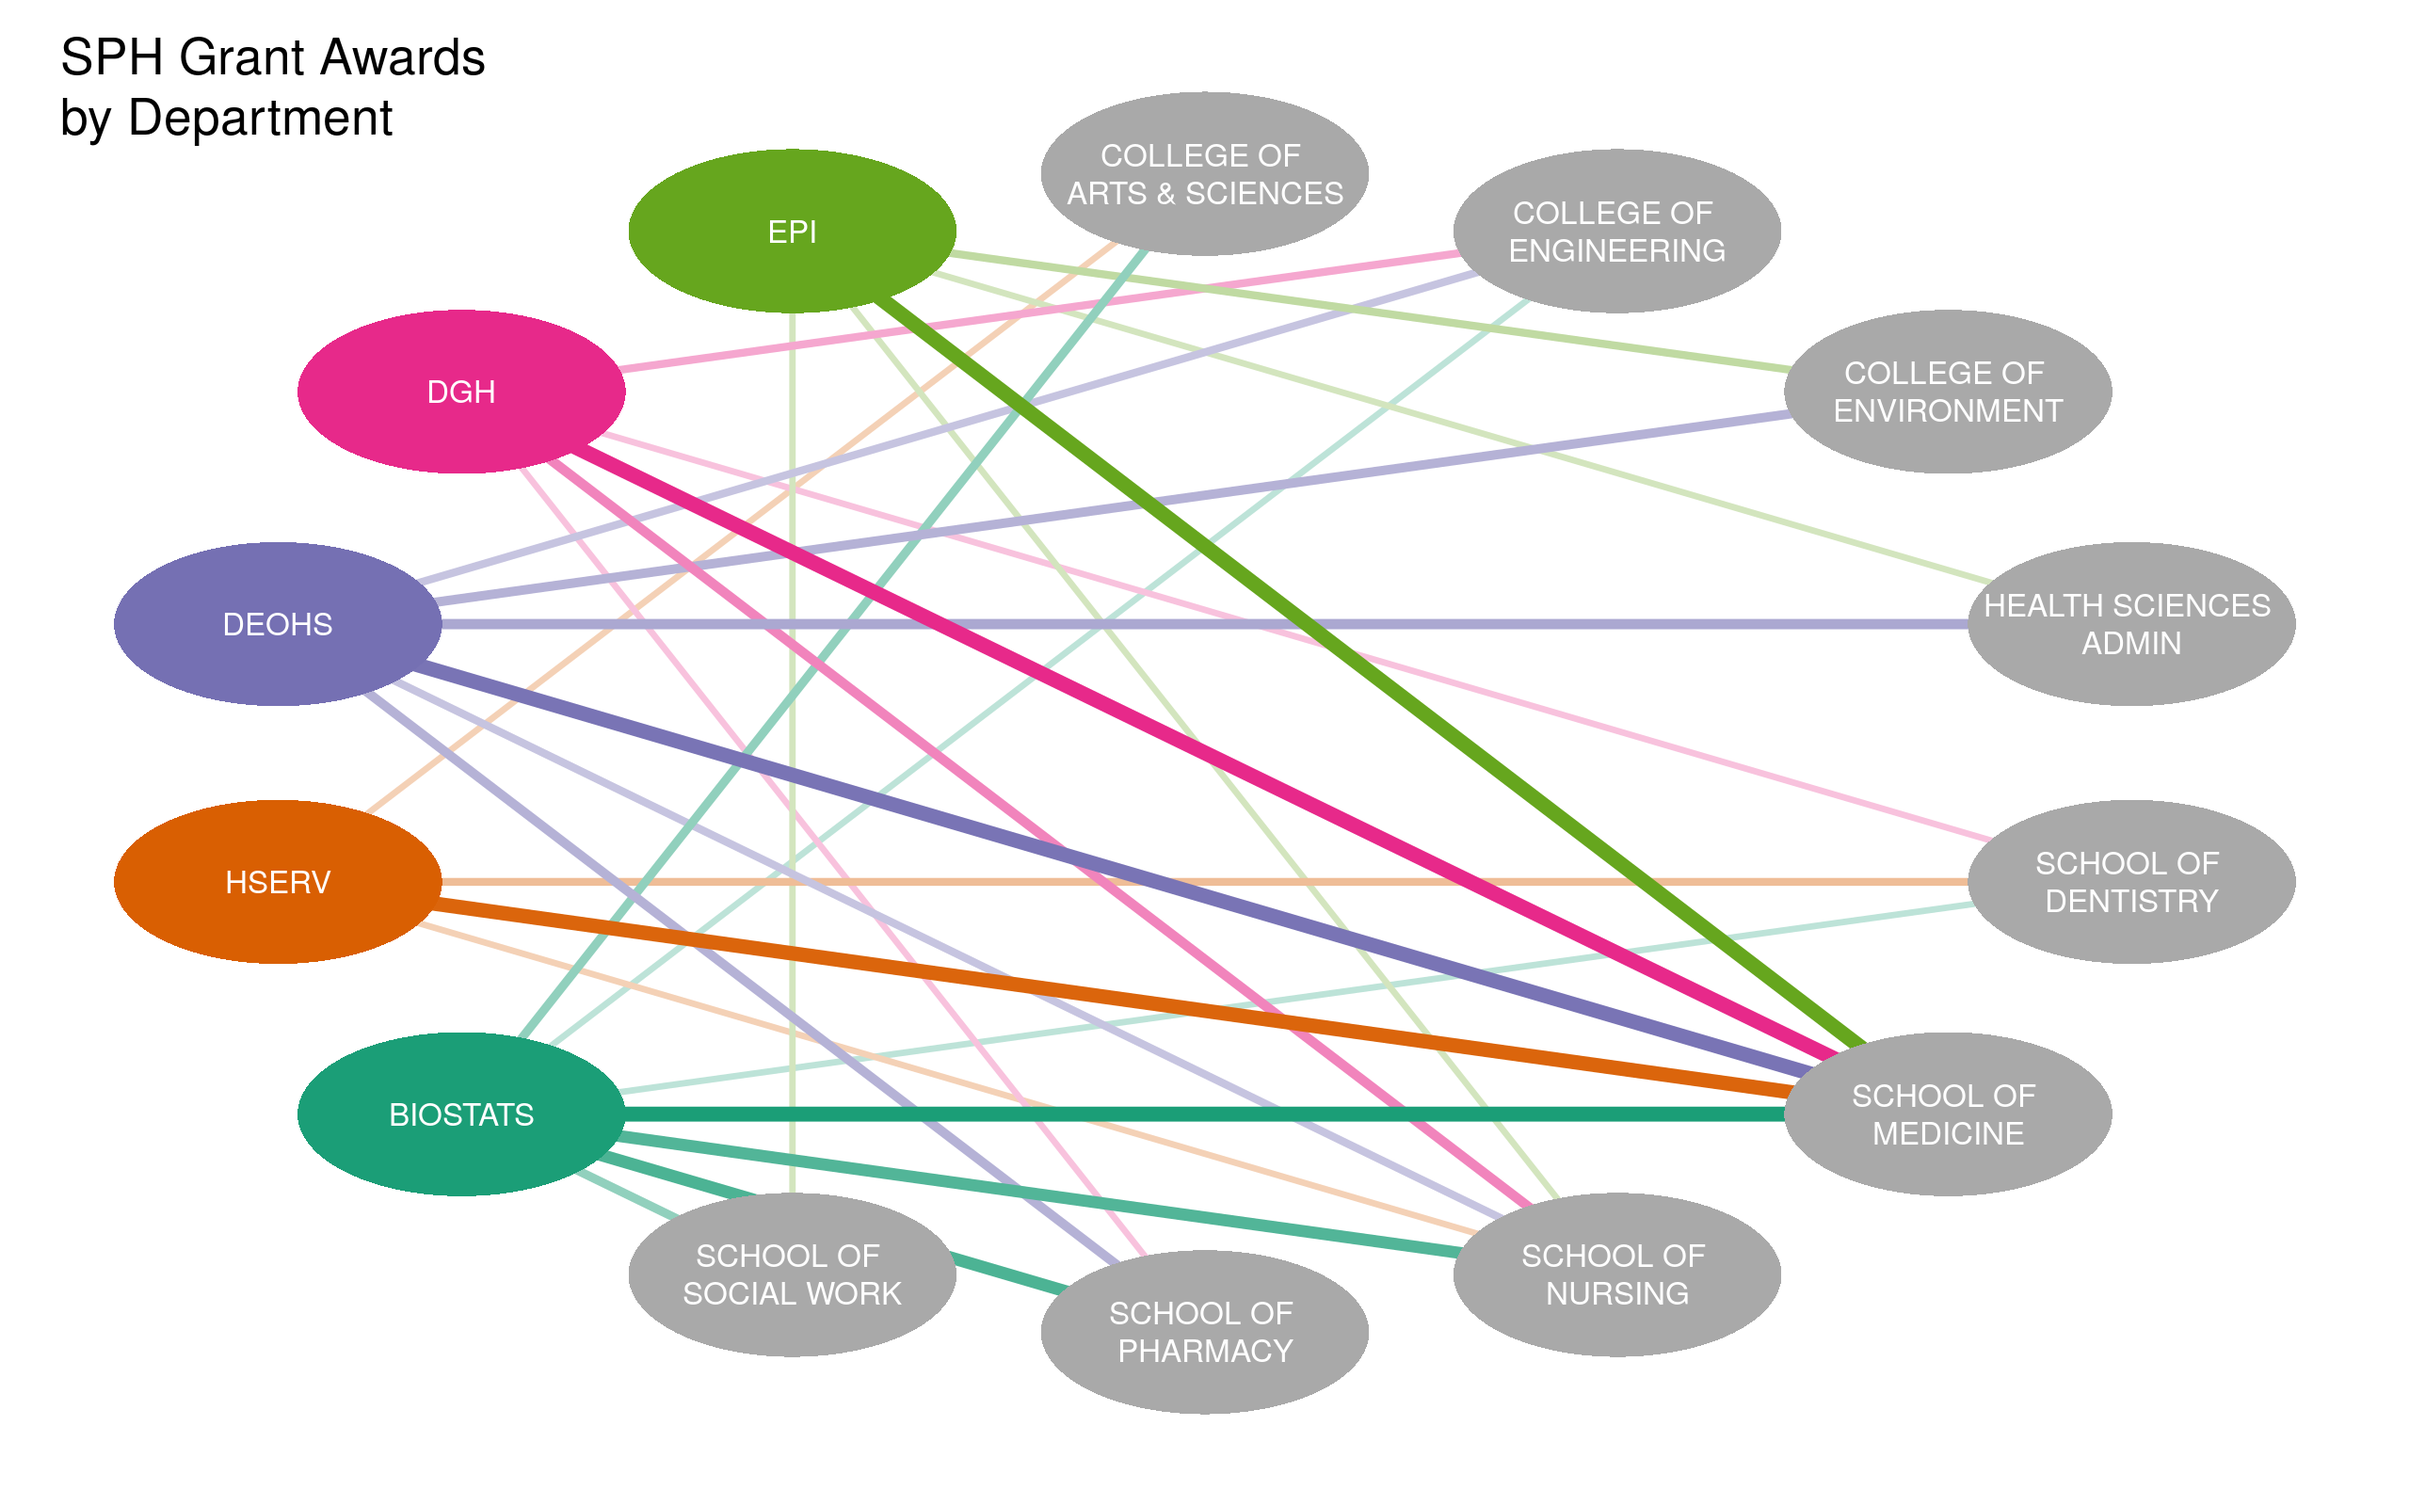
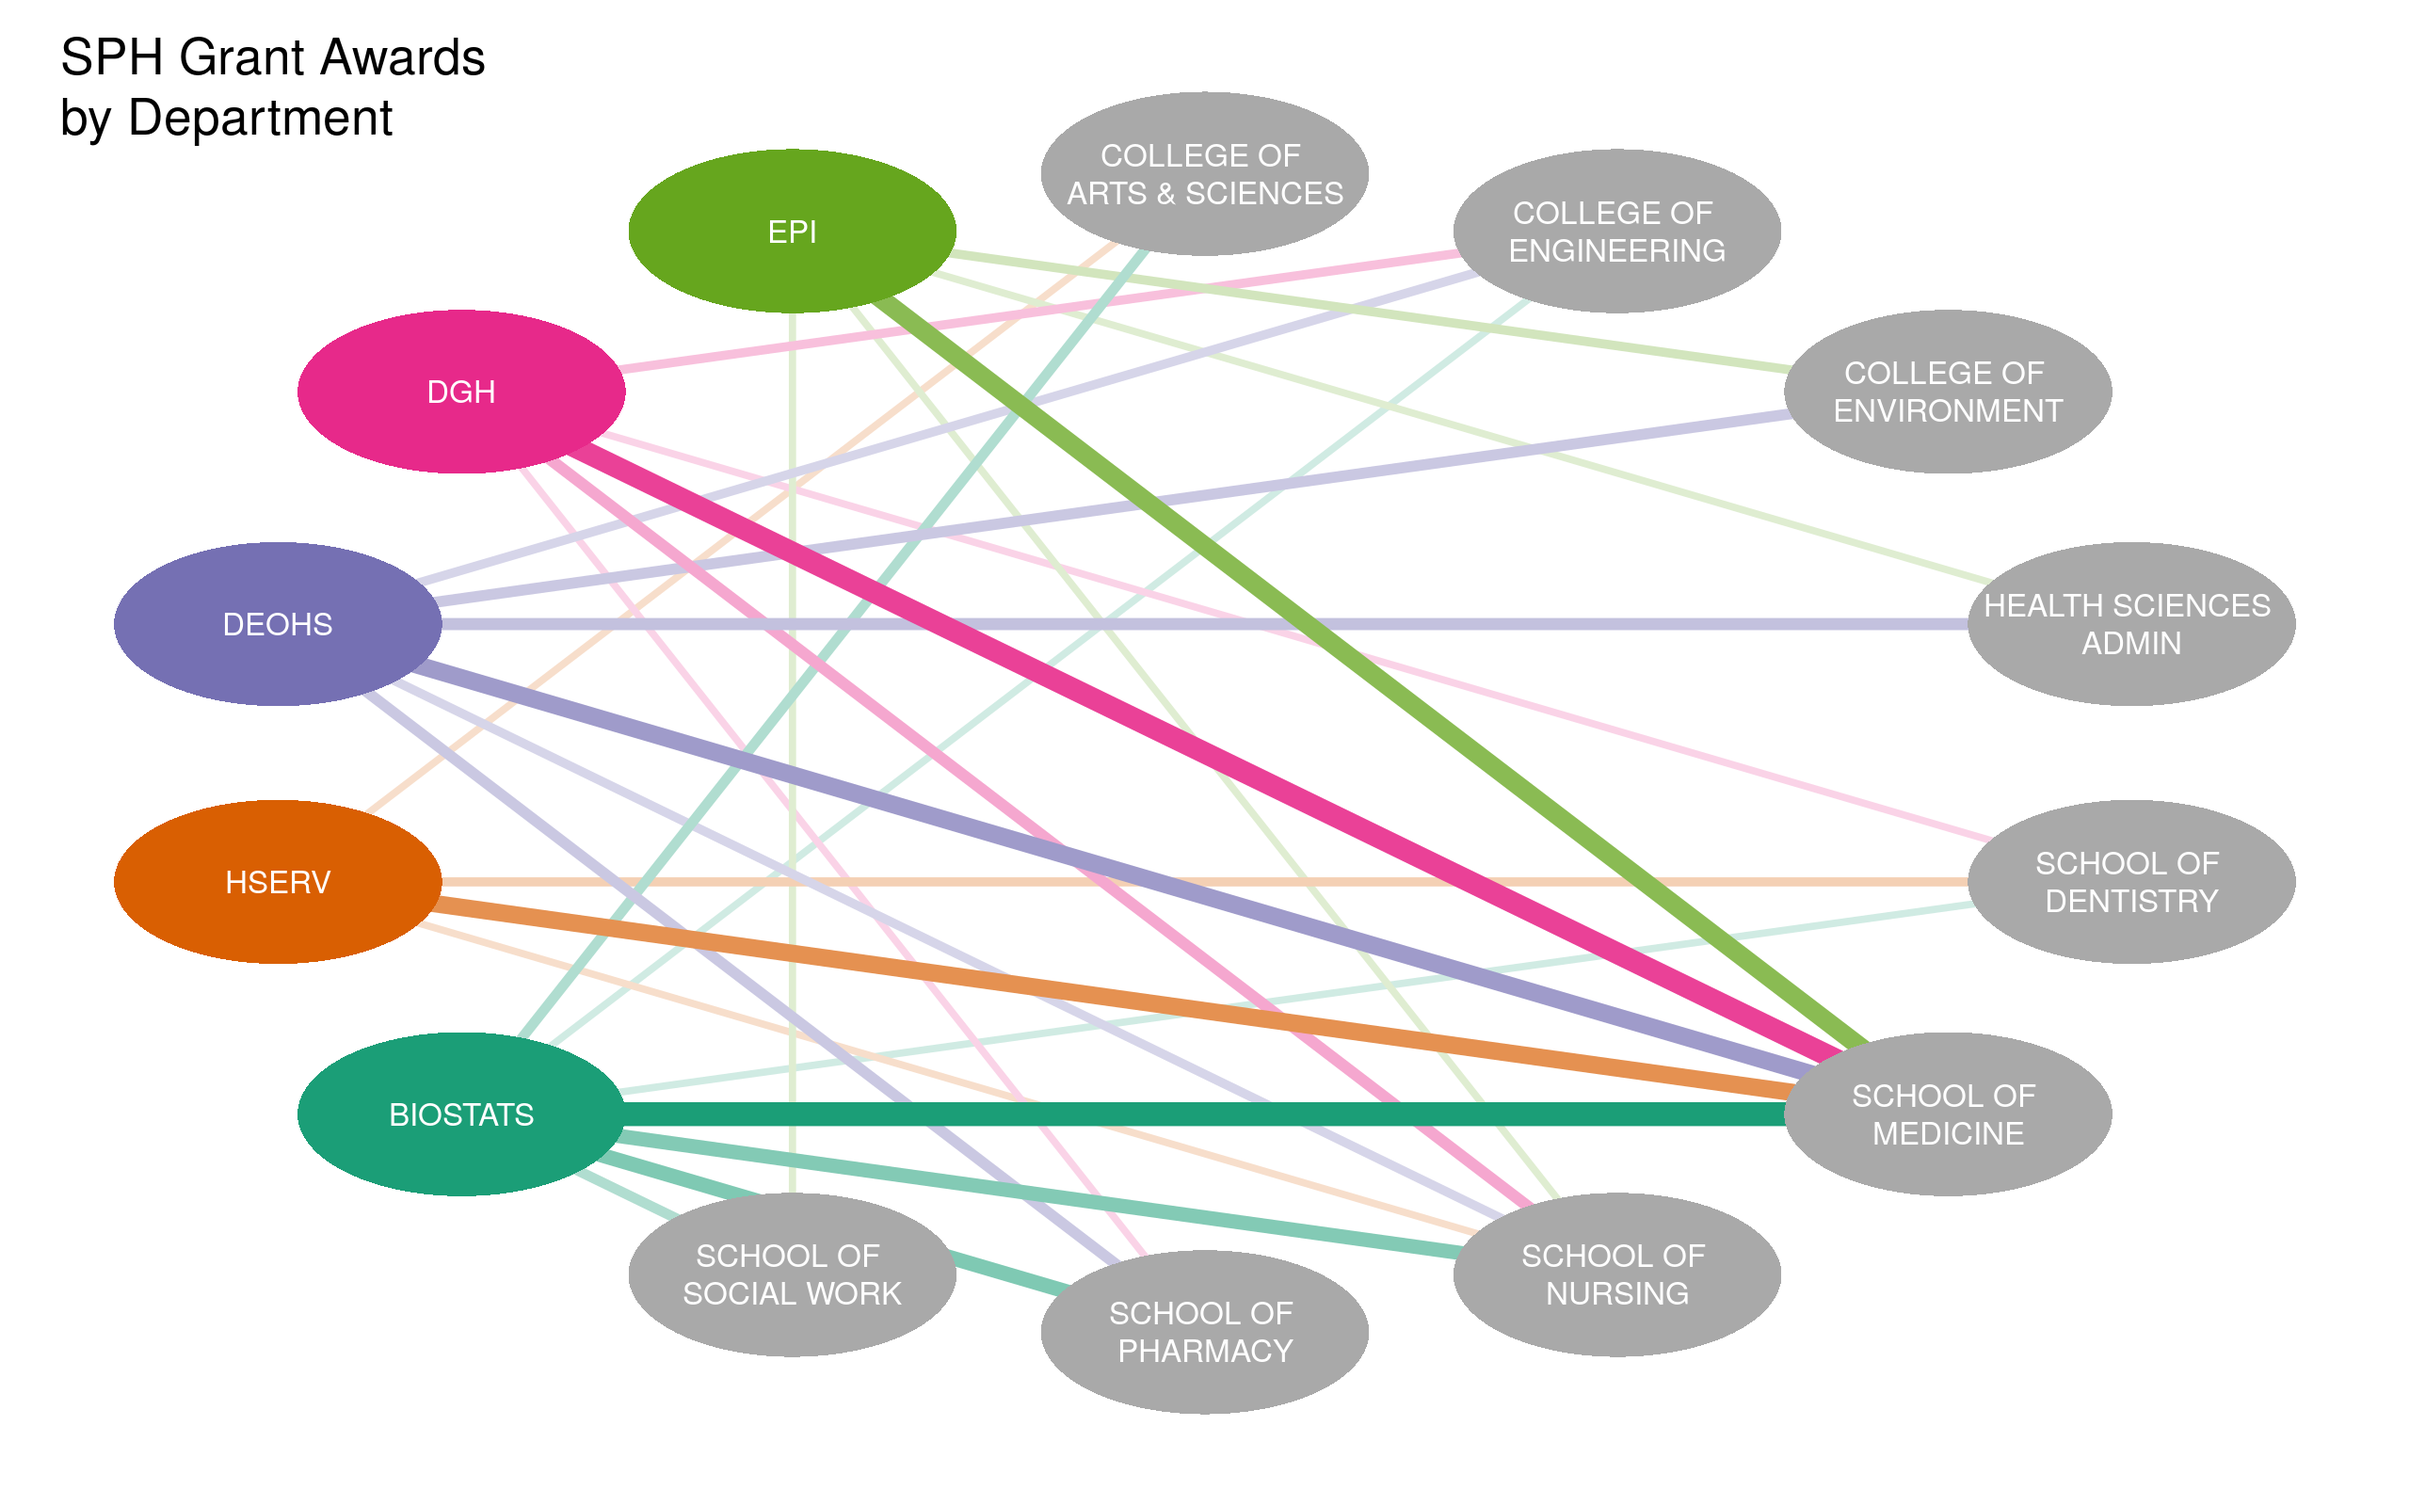
Removed thresholds feature and combined two sections.

diff --git a/demos/data_viz/network_graphs_with_qgraph/grant_awards.md b/demos/data_viz/network_graphs_with_qgraph/grant_awards.md
@@ -57,38 +57,28 @@ summary_df %>%
 |SCHOOL OF PHARMACY     |       16|     0|     4|   1|   0|
 |SCHOOL OF SOCIAL WORK  |        3|     0|     0|   0|   1|
 
-## Set the scaling variables
-
-To control line thickness and number of nodes represented, we will set two
-variables to be used in the next section.
-
-
-```r
-# Calculate quantiles to use for thresholds and scaling
-quantiles <- quantile(summary_df$Count)
-
-# Set threshold value and scaling factor to control weights (edge thickness)
-upper_threshold <- quantiles['75%']
-scaling_factor <- 1 + log(quantiles['75%'] / quantiles['25%'])
-```
-
 ## Make the edge list
 
 We will reshape our dataset and scale the weights to prepare the data for 
 use with `qgraph`. The result is called the "edge list". Edges are the lines
-that connect the nodes in the graph. The weights will determine the relative 
-line thickness and darkness of the edges.
+that connect the nodes in the graph. The weights and scaling factor will be 
+used to set the relative line thickness and darkness of the edges.
 
 
 ```r
+# Calculate quantiles to use for scaling
+quantiles <- quantile(summary_df$Count)
+
+# Set scaling factor for weights to allow better visibility of thinner edges
+scaling_factor <- 1 + log(quantiles['75%'] / quantiles['25%'])
+
 # Make edgelist for plotting
 edgelist <- summary_df %>% 
   filter(Org != "SCH OF PUBLIC HEALTH") %>% 
   mutate(Org = gsub('COLL ', 'COLLEGE OF ', Org), 
          Org = gsub('(COLLEGE OF |SCHOOL OF |HEALTH SCIENCES )', '\\1\n', Org)) %>% 
   rename(origin = 'Org', destination = 'Partner Org Unit', weight = 'Count') %>% 
-  mutate(weight = ifelse(weight > upper_threshold, upper_threshold, weight),
-         weight = normalize(log(weight * scaling_factor), method = 'scale'))
+  mutate(weight = normalize(log(weight * scaling_factor), method = 'scale'))
 ```
 
 ## Configure colors
@@ -119,16 +109,16 @@ colors_node <- unlist(c(rep(default_color, length(origins)),
 
 We will plot the nodes in a circle and use non-directed edges (i.e., no 
 arrowheads). The node shape will be equal-sized ellipses with equal-sized 
-labels. The sizes of the various components have been adjusted for readability.
+labels. The sizes of the various components have been adjusted for readability. 
 
 
 ```r
 # Make plot and save as PNG
-qgraph(edgelist, layout = 'circle', directed = FALSE, esize = 5, 
+qgraph(edgelist, layout = 'circle', directed = FALSE, esize = 8, 
        shape = 'ellipse', node.width = 2, node.height = 1, 
        color = colors_node, edge.color = colors_edge, label.color = 'white', 
        label.scale.equal = TRUE, label.cex = 1.2, borders = FALSE, 
-       title = 'SPH Grant Awards\nby Department', 
+       title = 'SPH Grant Awards\nby Department', details = FALSE, 
        title.cex = 1, filetype = 'png', width = 8, height = 5,
        filename = file.path('figures', 'grant_awards_by_dept'))
 ```
